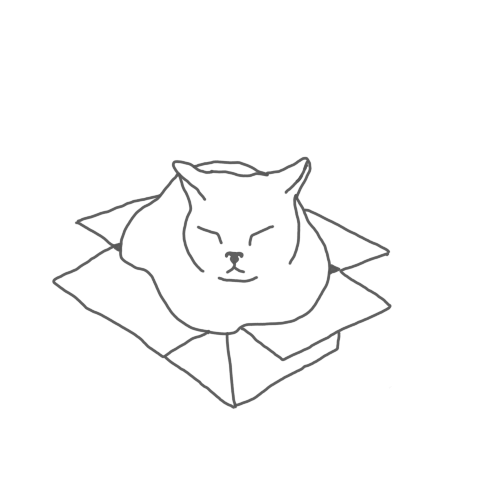
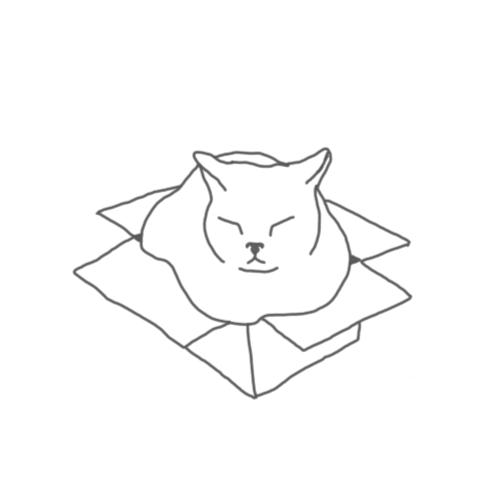
new img and empty drawer

Changed region(s): [[0.09, 0.27, 0.84, 0.84]]

diff --git a/butler_diary/lib/screen/diary_scr.dart b/butler_diary/lib/screen/diary_scr.dart
@@ -25,6 +25,23 @@ class DiaryScr extends StatelessWidget {
           body: ValueListenableBuilder<Box>(
             valueListenable: Hive.box('diary_${masterInfo.id}').listenable(),
             builder: (context, box, widget) {
+              if (box.length == 0)
+                return Column(
+                  children: [
+                    Container(
+                      decoration: BoxDecoration(
+                        borderRadius: BorderRadius.circular(20),
+                        color: Colors.white,
+                      ),
+                      margin: EdgeInsets.fromLTRB(50, 70, 50, 40),
+                      child: Image.asset('asset/img/ontop.png'),
+                    ),
+                    Text(
+                      '매일매일 이 몸을 잘 관찰하고 기록해라옹!',
+                      style: TextStyle(fontSize: 22),
+                    ),
+                  ],
+                );
               return ListView.builder(
                 reverse: true,
                 shrinkWrap: true,

diff --git a/butler_diary/lib/screen/living_room.dart b/butler_diary/lib/screen/living_room.dart
@@ -80,9 +80,12 @@ class LivingRoom extends StatelessWidget {
                               color: Colors.white,
                             ),
                             margin: EdgeInsets.fromLTRB(50, 70, 50, 20),
-                            child: Image.asset('asset/img/box1.png'),
+                            child: Image.asset('asset/img/pickme.png'),
                           ),
-                          Text('너 오늘부터 내 집사다옹!'),
+                          Text(
+                            '너 오늘부터 내 집사해라옹!',
+                            style: TextStyle(fontSize: 22),
+                          ),
                           SizedBox(height: 20),
                           ElevatedButton(
                             onPressed: () {

diff --git a/butler_diary/lib/widget/drawer_profile.dart b/butler_diary/lib/widget/drawer_profile.dart
@@ -29,6 +29,14 @@ class DrawerProfile extends StatelessWidget {
             child: ValueListenableBuilder<Box>(
                 valueListenable: Hive.box('myCats').listenable(),
                 builder: (context, box, widget) {
+                  if (box.length == 0)
+                    return Column(
+                      children: [
+                        Image.asset('asset/img/drawer.png'), // need to change
+                        Text('나만 고양이 없어....'),
+                        Text('주인님이 입양이 시급합니다.'),
+                      ],
+                    );
                   return ListView.builder(
                     itemBuilder: (context, idx) {
                       final Profile profile = box.getAt(idx);
